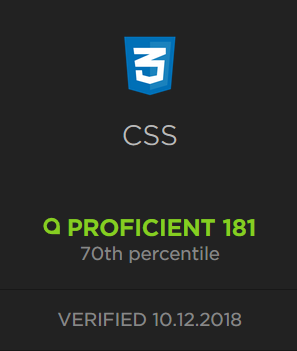
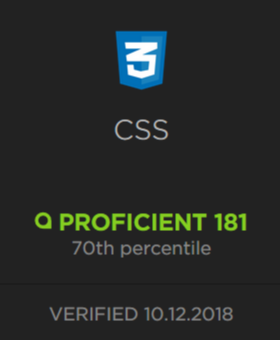
Add initial contents of software page

diff --git a/src/software/SoftwarePage.jsx b/src/software/SoftwarePage.jsx
@@ -12,6 +12,7 @@ import JavaScriptScore from "./../img/PluralSight/JS.PNG";
 import ApsMvcScore from "./../img/PluralSight/MVC.PNG";
 import PythonScore from "./../img/PluralSight/Python.PNG";
 import ReactScore from "./../img/PluralSight/React.PNG";
+import './SoftwarePage.css';
 
 class SoftwarePage extends Component {
     constructor(props) {
@@ -22,22 +23,22 @@ class SoftwarePage extends Component {
         return (
             <div>
                 <HeaderBar title="JM Miller - Salaried Consultant" />
-                <Panel className="page-contents-panel" style={{ float: "left", width: "66%", margin: "0 16%" }}>
+                <Panel className="page-contents-panel" style={{ }}>
                     <hr />
                     <div className="text-section">
-                        <ul style={{listStyle: 'none'}}>
-                            <li style={{float:'left', width: '300px', height: '350p', padding: '1px'}}><img src={AngularScore} /></li>
-                            <li style={{float:'left', width: '300px', height: '350p', padding: '1px'}}><img src={CSharpScore} /></li>
-                            <li style={{float:'left', width: '300px', height: '350p', padding: '1px'}}><img src={CssScore} /></li>
-                            <li style={{float:'left', width: '300px', height: '350p', padding: '1px'}}><img src={DevOpsScore} /></li>
-                            <li style={{float:'left', width: '300px', height: '350p', padding: '1px'}}><img src={DockerScore} /></li>
-                            <li style={{float:'left', width: '300px', height: '350p', padding: '1px'}}><img src={GitScore} /></li>
-                            <li style={{float:'left', width: '300px', height: '350p', padding: '1px'}}><img src={HtmlScore} /></li>
-                            <li style={{float:'left', width: '300px', height: '350p', padding: '1px'}}><img src={JavaScriptScore} /></li>
-                            <li style={{float:'left', width: '300px', height: '350p', padding: '1px'}}><img src={ApsMvcScore} /></li>
-                            <li style={{float:'left', width: '300px', height: '350p', padding: '1px'}}><img src={PythonScore} /></li>
-                            <li style={{float:'right', width: '300px', height: '350p', padding: '1px'}}><img src={ReactScore} /></li>
-                        </ul>
+                        <div className="skill-score-list" style={{listStyle: 'none'}}>
+                            <img src={AngularScore} />
+                            <img src={CSharpScore} />
+                            <img src={CssScore} />
+                            <img src={DevOpsScore} />
+                            <img src={DockerScore} />
+                            <img src={GitScore} />
+                            <img src={HtmlScore} />
+                            <img src={JavaScriptScore} />
+                            <img src={ApsMvcScore} />
+                            <img src={PythonScore} />
+                            <img src={ReactScore} />
+                        </div>
                     </div>
                 </Panel>
             </div>

diff --git a/src/software/SoftwarePage.css b/src/software/SoftwarePage.css
@@ -1,0 +1,13 @@
+.skill-score-list {
+    float:left; 
+    width: 68%; 
+    margin: 0 16%; 
+    padding: 0 0; 
+}
+
+.skill-score-list img {
+    text-align: center;
+    padding-left: auto;
+    padding-right: auto;
+    width: 15%;
+}
